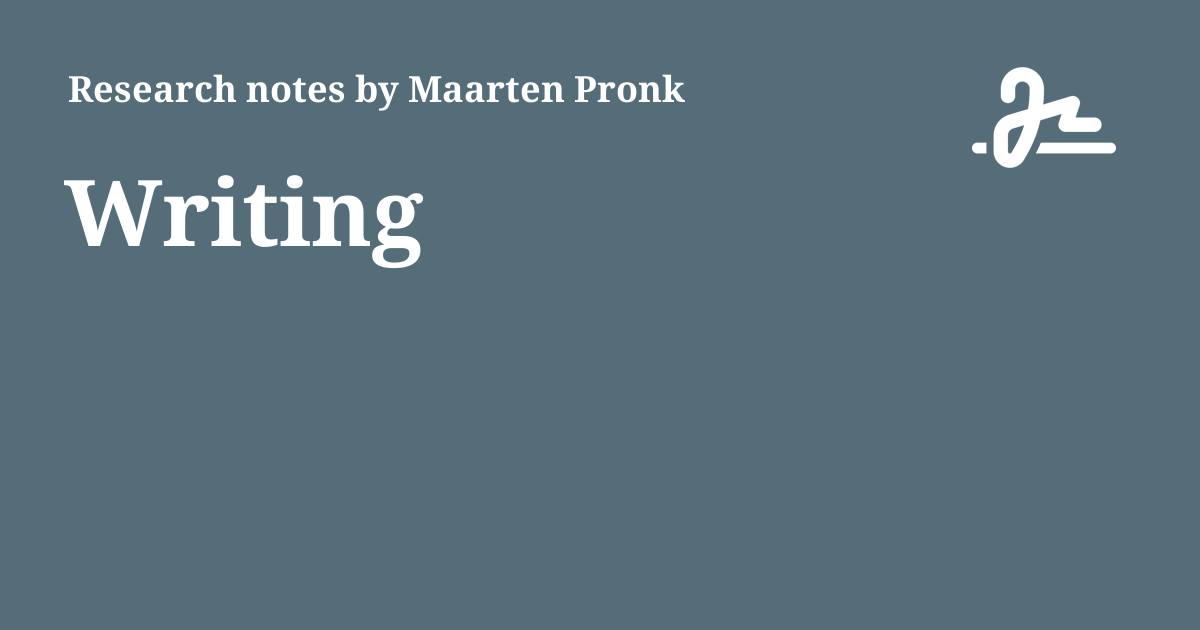
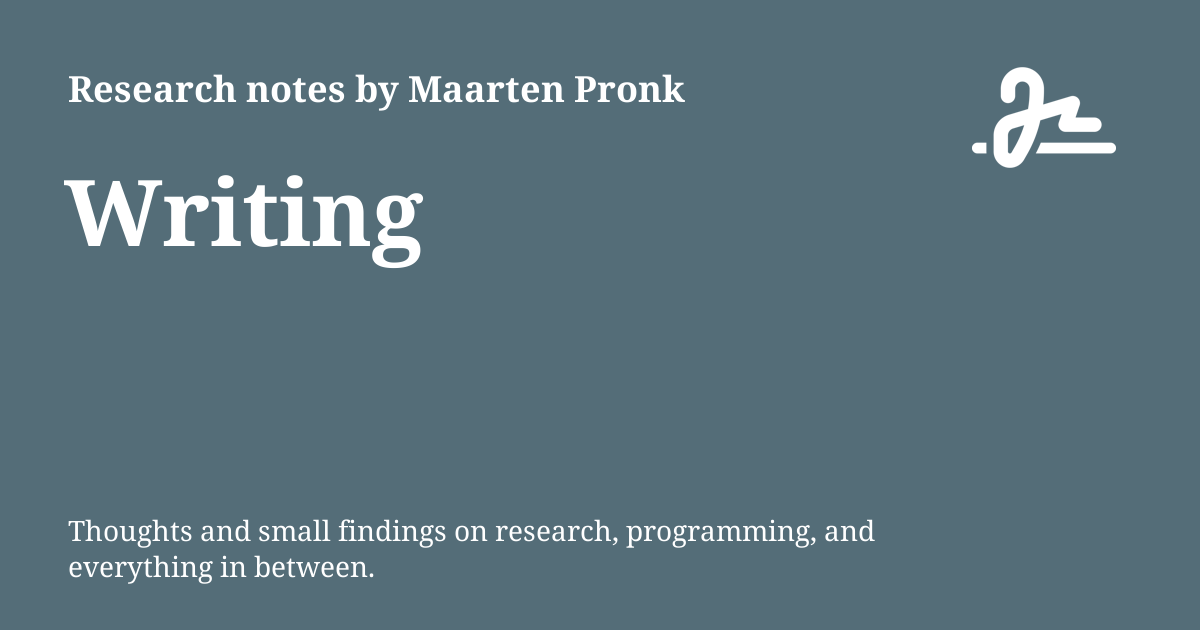
Deployed 0957760 with MkDocs version: 1.5.3

Changed region(s): [[0.0617, 0.8143, 0.74, 0.9349]]

diff --git a/index.html b/index.html
@@ -6,9 +6,11 @@
       <meta charset="utf-8">
       <meta name="viewport" content="width=device-width,initial-scale=1">
       
-        <meta name="description" content="Homepage and research notes of Maarten Pronk.">
+        <meta name="description" content="Thoughts and small findings on research, programming, and everything in between.">
       
       
+      
+        <link rel="canonical" href="https://www.evetion.nl/">
       
       
       
@@ -23,7 +25,7 @@
     
     
       
-        <title>Research notes by Maarten Pronk</title>
+        <title>Homepage - Research notes by Maarten Pronk</title>
       
     
     
@@ -61,11 +63,11 @@
       
         <meta  property="og:type"  content="website" >
       
-        <meta  property="og:title"  content="Home" >
+        <meta  property="og:title"  content="Homepage" >
       
-        <meta  property="og:description"  content="Homepage and research notes of Maarten Pronk." >
+        <meta  property="og:description"  content="Thoughts and small findings on research, programming, and everything in between." >
       
-        <meta  property="og:image"  content="./assets/images/social/index.png" >
+        <meta  property="og:image"  content="https://www.evetion.nl/assets/images/social/index.png" >
       
         <meta  property="og:image:type"  content="image/png" >
       
@@ -73,15 +75,15 @@
       
         <meta  property="og:image:height"  content="630" >
       
-        <meta  property="og:url"  content="None" >
+        <meta  property="og:url"  content="https://www.evetion.nl/" >
       
         <meta  name="twitter:card"  content="summary_large_image" >
       
-        <meta  name="twitter:title"  content="Home" >
+        <meta  name="twitter:title"  content="Homepage" >
       
-        <meta  name="twitter:description"  content="Homepage and research notes of Maarten Pronk." >
+        <meta  name="twitter:description"  content="Thoughts and small findings on research, programming, and everything in between." >
       
-        <meta  name="twitter:image"  content="./assets/images/social/index.png" >
+        <meta  name="twitter:image"  content="https://www.evetion.nl/assets/images/social/index.png" >
       
     
     
@@ -177,7 +179,7 @@ or
         <div class="md-header__topic" data-md-component="header-topic">
           <span class="md-ellipsis">
             
-              Home
+              Homepage
             
           </span>
         </div>
@@ -698,7 +700,7 @@ or
 <p><a class="glightbox" href="https://github.com/evetion.png" data-type="image" data-width="100%" data-height="auto" data-desc-position="bottom"><img style="float: left; margin: 5pt; padding: 10px" src="https://github.com/evetion.png" class="img-me" alt="Profile picture"></a></p>
 <p>Hi, I’m Maarten Pronk 👋. I'm a researcher at <a href="https://www.deltares.nl/en/">Deltares</a> and an external PhD candidate in the <a href="https://3d.bk.tudelft.nl/">3dgeoinfo research group</a> at the <a href="https://www.tudelft.nl/en/">Delft University of Technology</a>. I have earned a Master of Science degree in <a href="https://www.tudelft.nl/onderwijs/opleidingen/masters/gm/msc-geomatics/">Geomatics</a> with honors.</p>
 <p>My research concerns elevation modelling, especially in lowlands prone to coastal flooding. I aim to combine my interests in remote sensing and software engineering for societal impact. Currently, I'm working on applying data from ICESat-2—a <em>lidar</em> satellite—on global elevation models.</p>
-<p>I promote open and reproducible research, and I'm the author of <a href="https://github.com/evetion">several open-source software packages</a> for handling geospatial data, written in the Julia programming language. In my free time I tinker with open data, but I also read, <a href="notes">write</a>, climb, boulder, mountaineer, and ride a motorbike.</p>
+<p>I promote open and reproducible research, and I'm the author of <a href="https://github.com/evetion">several open-source software packages</a> for handling geospatial data, written in the Julia programming language. In my free time I tinker with open data, but I also read, <a href="notes/">write</a>, climb, boulder, mountaineer, and ride a motorbike.</p>
 
 
 

diff --git a/notes/2023/12/03/hello-world/index.html b/notes/2023/12/03/hello-world/index.html
@@ -6,9 +6,11 @@
       <meta charset="utf-8">
       <meta name="viewport" content="width=device-width,initial-scale=1">
       
-        <meta name="description" content="Hey there, welcome to my research notes, or blog.">
+        <meta name="description" content="Hey there, welcome to the first research note, or blog post.">
       
       
+      
+        <link rel="canonical" href="https://www.evetion.nl/notes/2023/12/03/hello-world/">
       
       
       
@@ -58,9 +60,9 @@
       
         <meta  property="og:title"  content="Hello World - Research notes by Maarten Pronk" >
       
-        <meta  property="og:description"  content="Hey there, welcome to my research notes, or blog." >
+        <meta  property="og:description"  content="Hey there, welcome to the first research note, or blog post." >
       
-        <meta  property="og:image"  content="./assets/images/social/notes/posts/hello.png" >
+        <meta  property="og:image"  content="https://www.evetion.nl/assets/images/social/notes/posts/hello.png" >
       
         <meta  property="og:image:type"  content="image/png" >
       
@@ -68,15 +70,15 @@
       
         <meta  property="og:image:height"  content="630" >
       
-        <meta  property="og:url"  content="None" >
+        <meta  property="og:url"  content="https://www.evetion.nl/notes/2023/12/03/hello-world/" >
       
         <meta  name="twitter:card"  content="summary_large_image" >
       
         <meta  name="twitter:title"  content="Hello World - Research notes by Maarten Pronk" >
       
-        <meta  name="twitter:description"  content="Hey there, welcome to my research notes, or blog." >
+        <meta  name="twitter:description"  content="Hey there, welcome to the first research note, or blog post." >
       
-        <meta  name="twitter:image"  content="./assets/images/social/notes/posts/hello.png" >
+        <meta  name="twitter:image"  content="https://www.evetion.nl/assets/images/social/notes/posts/hello.png" >
       
     
     

diff --git a/notes/category/writing/index.html b/notes/category/writing/index.html
@@ -6,7 +6,11 @@
       <meta charset="utf-8">
       <meta name="viewport" content="width=device-width,initial-scale=1">
       
+        <meta name="description" content="Thoughts and small findings on research, programming, and everything in between.">
       
+      
+      
+        <link rel="canonical" href="https://www.evetion.nl/notes/category/writing/">
       
       
         <link rel="prev" href="../../">
@@ -60,9 +64,9 @@
       
         <meta  property="og:title"  content="Writing - Research notes by Maarten Pronk" >
       
-        <meta  property="og:description"  content="None" >
+        <meta  property="og:description"  content="Thoughts and small findings on research, programming, and everything in between." >
       
-        <meta  property="og:image"  content="./assets/images/social/notes/category/writing.png" >
+        <meta  property="og:image"  content="https://www.evetion.nl/assets/images/social/notes/category/writing.png" >
       
         <meta  property="og:image:type"  content="image/png" >
       
@@ -70,15 +74,15 @@
       
         <meta  property="og:image:height"  content="630" >
       
-        <meta  property="og:url"  content="None" >
+        <meta  property="og:url"  content="https://www.evetion.nl/notes/category/writing/" >
       
         <meta  name="twitter:card"  content="summary_large_image" >
       
         <meta  name="twitter:title"  content="Writing - Research notes by Maarten Pronk" >
       
-        <meta  name="twitter:description"  content="None" >
+        <meta  name="twitter:description"  content="Thoughts and small findings on research, programming, and everything in between." >
       
-        <meta  name="twitter:image"  content="./assets/images/social/notes/category/writing.png" >
+        <meta  name="twitter:image"  content="https://www.evetion.nl/assets/images/social/notes/category/writing.png" >
       
     
     

diff --git a/notes/archive/2023/index.html b/notes/archive/2023/index.html
@@ -6,7 +6,11 @@
       <meta charset="utf-8">
       <meta name="viewport" content="width=device-width,initial-scale=1">
       
+        <meta name="description" content="Thoughts and small findings on research, programming, and everything in between.">
       
+      
+      
+        <link rel="canonical" href="https://www.evetion.nl/notes/archive/2023/">
       
       
         <link rel="prev" href="../../category/writing/">
@@ -60,9 +64,9 @@
       
         <meta  property="og:title"  content="2023 - Research notes by Maarten Pronk" >
       
-        <meta  property="og:description"  content="None" >
+        <meta  property="og:description"  content="Thoughts and small findings on research, programming, and everything in between." >
       
-        <meta  property="og:image"  content="./assets/images/social/notes/archive/2023.png" >
+        <meta  property="og:image"  content="https://www.evetion.nl/assets/images/social/notes/archive/2023.png" >
       
         <meta  property="og:image:type"  content="image/png" >
       
@@ -70,15 +74,15 @@
       
         <meta  property="og:image:height"  content="630" >
       
-        <meta  property="og:url"  content="None" >
+        <meta  property="og:url"  content="https://www.evetion.nl/notes/archive/2023/" >
       
         <meta  name="twitter:card"  content="summary_large_image" >
       
         <meta  name="twitter:title"  content="2023 - Research notes by Maarten Pronk" >
       
-        <meta  name="twitter:description"  content="None" >
+        <meta  name="twitter:description"  content="Thoughts and small findings on research, programming, and everything in between." >
       
-        <meta  name="twitter:image"  content="./assets/images/social/notes/archive/2023.png" >
+        <meta  name="twitter:image"  content="https://www.evetion.nl/assets/images/social/notes/archive/2023.png" >
       
     
     

diff --git a/notes/2023/12/31/all-dems-are-wrong-some-are-useful/index.html b/notes/2023/12/31/all-dems-are-wrong-some-are-useful/index.html
@@ -6,7 +6,11 @@
       <meta charset="utf-8">
       <meta name="viewport" content="width=device-width,initial-scale=1">
       
+        <meta name="description" content="A comparison of global elevation models.">
       
+      
+      
+        <link rel="canonical" href="https://www.evetion.nl/notes/2023/12/31/all-dems-are-wrong-some-are-useful/">
       
       
       
@@ -56,9 +60,9 @@
       
         <meta  property="og:title"  content="All DEMs are wrong, some are useful - Research notes by Maarten Pronk" >
       
-        <meta  property="og:description"  content="None" >
+        <meta  property="og:description"  content="A comparison of global elevation models." >
       
-        <meta  property="og:image"  content="./assets/images/social/notes/posts/gdsm.png" >
+        <meta  property="og:image"  content="https://www.evetion.nl/assets/images/social/notes/posts/gdsm.png" >
       
         <meta  property="og:image:type"  content="image/png" >
       
@@ -66,15 +70,15 @@
       
         <meta  property="og:image:height"  content="630" >
       
-        <meta  property="og:url"  content="None" >
+        <meta  property="og:url"  content="https://www.evetion.nl/notes/2023/12/31/all-dems-are-wrong-some-are-useful/" >
       
         <meta  name="twitter:card"  content="summary_large_image" >
       
         <meta  name="twitter:title"  content="All DEMs are wrong, some are useful - Research notes by Maarten Pronk" >
       
-        <meta  name="twitter:description"  content="None" >
+        <meta  name="twitter:description"  content="A comparison of global elevation models." >
       
-        <meta  name="twitter:image"  content="./assets/images/social/notes/posts/gdsm.png" >
+        <meta  name="twitter:image"  content="https://www.evetion.nl/assets/images/social/notes/posts/gdsm.png" >
       
     
     

diff --git a/notes/index.html b/notes/index.html
@@ -6,9 +6,11 @@
       <meta charset="utf-8">
       <meta name="viewport" content="width=device-width,initial-scale=1">
       
-        <meta name="description" content="Index of papers, presentations, and posters.">
+        <meta name="description" content="Index of all research notes.">
       
       
+      
+        <link rel="canonical" href="https://www.evetion.nl/notes/">
       
       
         <link rel="prev" href="..">
@@ -62,9 +64,9 @@
       
         <meta  property="og:title"  content="Index - Research notes by Maarten Pronk" >
       
-        <meta  property="og:description"  content="Index of papers, presentations, and posters." >
+        <meta  property="og:description"  content="Index of all research notes." >
       
-        <meta  property="og:image"  content="./assets/images/social/notes/index.png" >
+        <meta  property="og:image"  content="https://www.evetion.nl/assets/images/social/notes/index.png" >
       
         <meta  property="og:image:type"  content="image/png" >
       
@@ -72,15 +74,15 @@
       
         <meta  property="og:image:height"  content="630" >
       
-        <meta  property="og:url"  content="None" >
+        <meta  property="og:url"  content="https://www.evetion.nl/notes/" >
       
         <meta  name="twitter:card"  content="summary_large_image" >
       
         <meta  name="twitter:title"  content="Index - Research notes by Maarten Pronk" >
       
-        <meta  name="twitter:description"  content="Index of papers, presentations, and posters." >
+        <meta  name="twitter:description"  content="Index of all research notes." >
       
-        <meta  name="twitter:image"  content="./assets/images/social/notes/index.png" >
+        <meta  name="twitter:image"  content="https://www.evetion.nl/assets/images/social/notes/index.png" >
       
     
     

diff --git a/notes/2023/12/13/detecting-embankments/index.html b/notes/2023/12/13/detecting-embankments/index.html
@@ -10,6 +10,8 @@
       
       
       
+        <link rel="canonical" href="https://www.evetion.nl/notes/2023/12/13/detecting-embankments/">
+      
       
       
       
@@ -60,7 +62,7 @@
       
         <meta  property="og:description"  content="Detecting connected embankments in global elevation models." >
       
-        <meta  property="og:image"  content="./assets/images/social/notes/posts/embankment_detection.png" >
+        <meta  property="og:image"  content="https://www.evetion.nl/assets/images/social/notes/posts/embankment_detection.png" >
       
         <meta  property="og:image:type"  content="image/png" >
       
@@ -68,7 +70,7 @@
       
         <meta  property="og:image:height"  content="630" >
       
-        <meta  property="og:url"  content="None" >
+        <meta  property="og:url"  content="https://www.evetion.nl/notes/2023/12/13/detecting-embankments/" >
       
         <meta  name="twitter:card"  content="summary_large_image" >
       
@@ -76,7 +78,7 @@
       
         <meta  name="twitter:description"  content="Detecting connected embankments in global elevation models." >
       
-        <meta  name="twitter:image"  content="./assets/images/social/notes/posts/embankment_detection.png" >
+        <meta  name="twitter:image"  content="https://www.evetion.nl/assets/images/social/notes/posts/embankment_detection.png" >
       
     
     

diff --git a/research/index.html b/research/index.html
@@ -10,6 +10,8 @@
       
       
       
+        <link rel="canonical" href="https://www.evetion.nl/research/">
+      
       
         <link rel="prev" href="../notes/archive/2023/">
       
@@ -62,7 +64,7 @@
       
         <meta  property="og:description"  content="Index of papers, presentations, and posters." >
       
-        <meta  property="og:image"  content="./assets/images/social/research.png" >
+        <meta  property="og:image"  content="https://www.evetion.nl/assets/images/social/research.png" >
       
         <meta  property="og:image:type"  content="image/png" >
       
@@ -70,7 +72,7 @@
       
         <meta  property="og:image:height"  content="630" >
       
-        <meta  property="og:url"  content="None" >
+        <meta  property="og:url"  content="https://www.evetion.nl/research/" >
       
         <meta  name="twitter:card"  content="summary_large_image" >
       
@@ -78,7 +80,7 @@
       
         <meta  name="twitter:description"  content="Index of papers, presentations, and posters." >
       
-        <meta  name="twitter:image"  content="./assets/images/social/research.png" >
+        <meta  name="twitter:image"  content="https://www.evetion.nl/assets/images/social/research.png" >
       
     
     

diff --git a/404.html b/404.html
@@ -6,6 +6,8 @@
       <meta charset="utf-8">
       <meta name="viewport" content="width=device-width,initial-scale=1">
       
+        <meta name="description" content="Thoughts and small findings on research, programming, and everything in between.">
+      
       
       
       
